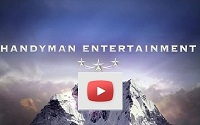
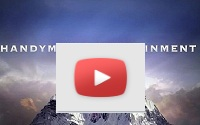
fixed the underlined linked problem. also fixed the images for the youtube videos

Changed region(s): [[0.27, 0.336, 0.75, 0.912]]

diff --git a/index.html b/index.html
@@ -323,7 +323,7 @@
                 <div class="row">
                     <h3 class="row">GALLERY</h3>
                     <div class="row">
-                        <p class="c6">See these videos and more like them on our <a class="bright-color" href="https://www.youtube.com/user/DeeJayHandyman">youtube channel</a></p>
+                        <p class="c6">See these videos and more like them on our <a class="bright-color underline" href="https://www.youtube.com/user/DeeJayHandyman">youtube channel</a></p>
                     </div>
                     <div class="row">
                         <a class="c4" href="http://youtu.be/Wk2rdiRMm04" target="_blank"><img src="./img/youtube_handy_man_entertainment.JPG"></a>

diff --git a/css/site.css b/css/site.css
@@ -19,8 +19,12 @@
     min-height: 100px;;
 }
 
-a.menu-item{
-    text-decoration: none;;
+a.underline{
+    text-decoration: underline;
+}
+
+a{
+    text-decoration: none;
 }
 
 a.menu-item:hover
